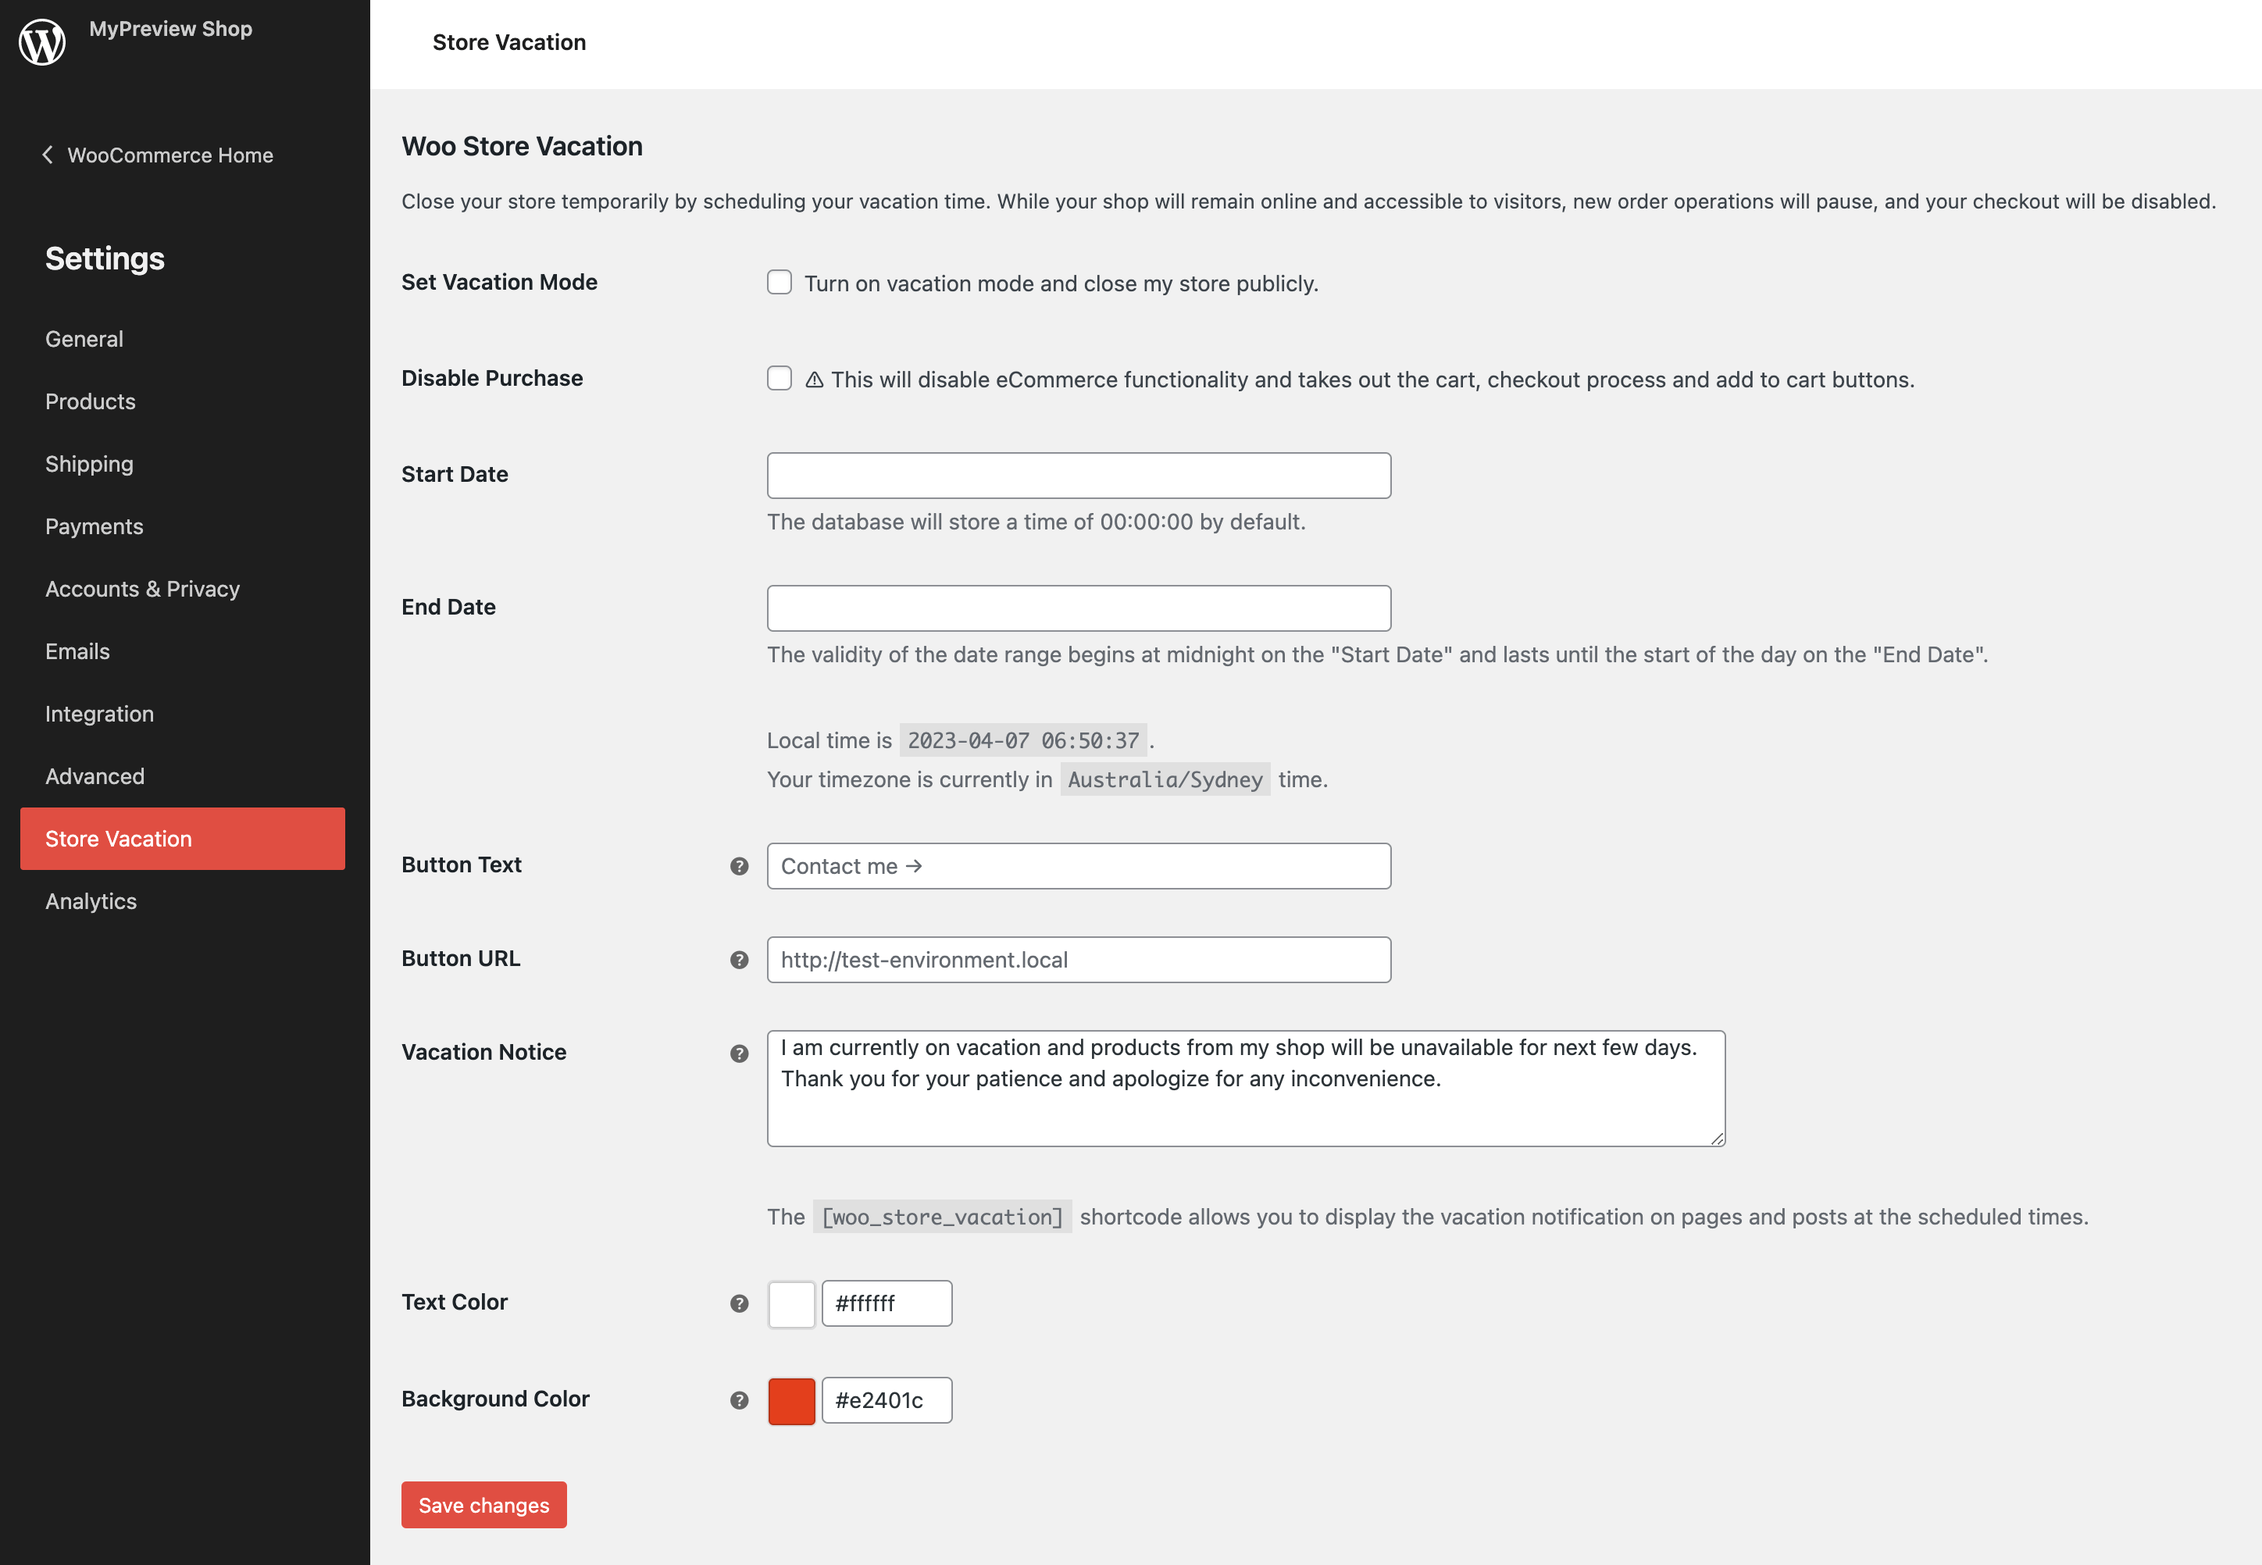
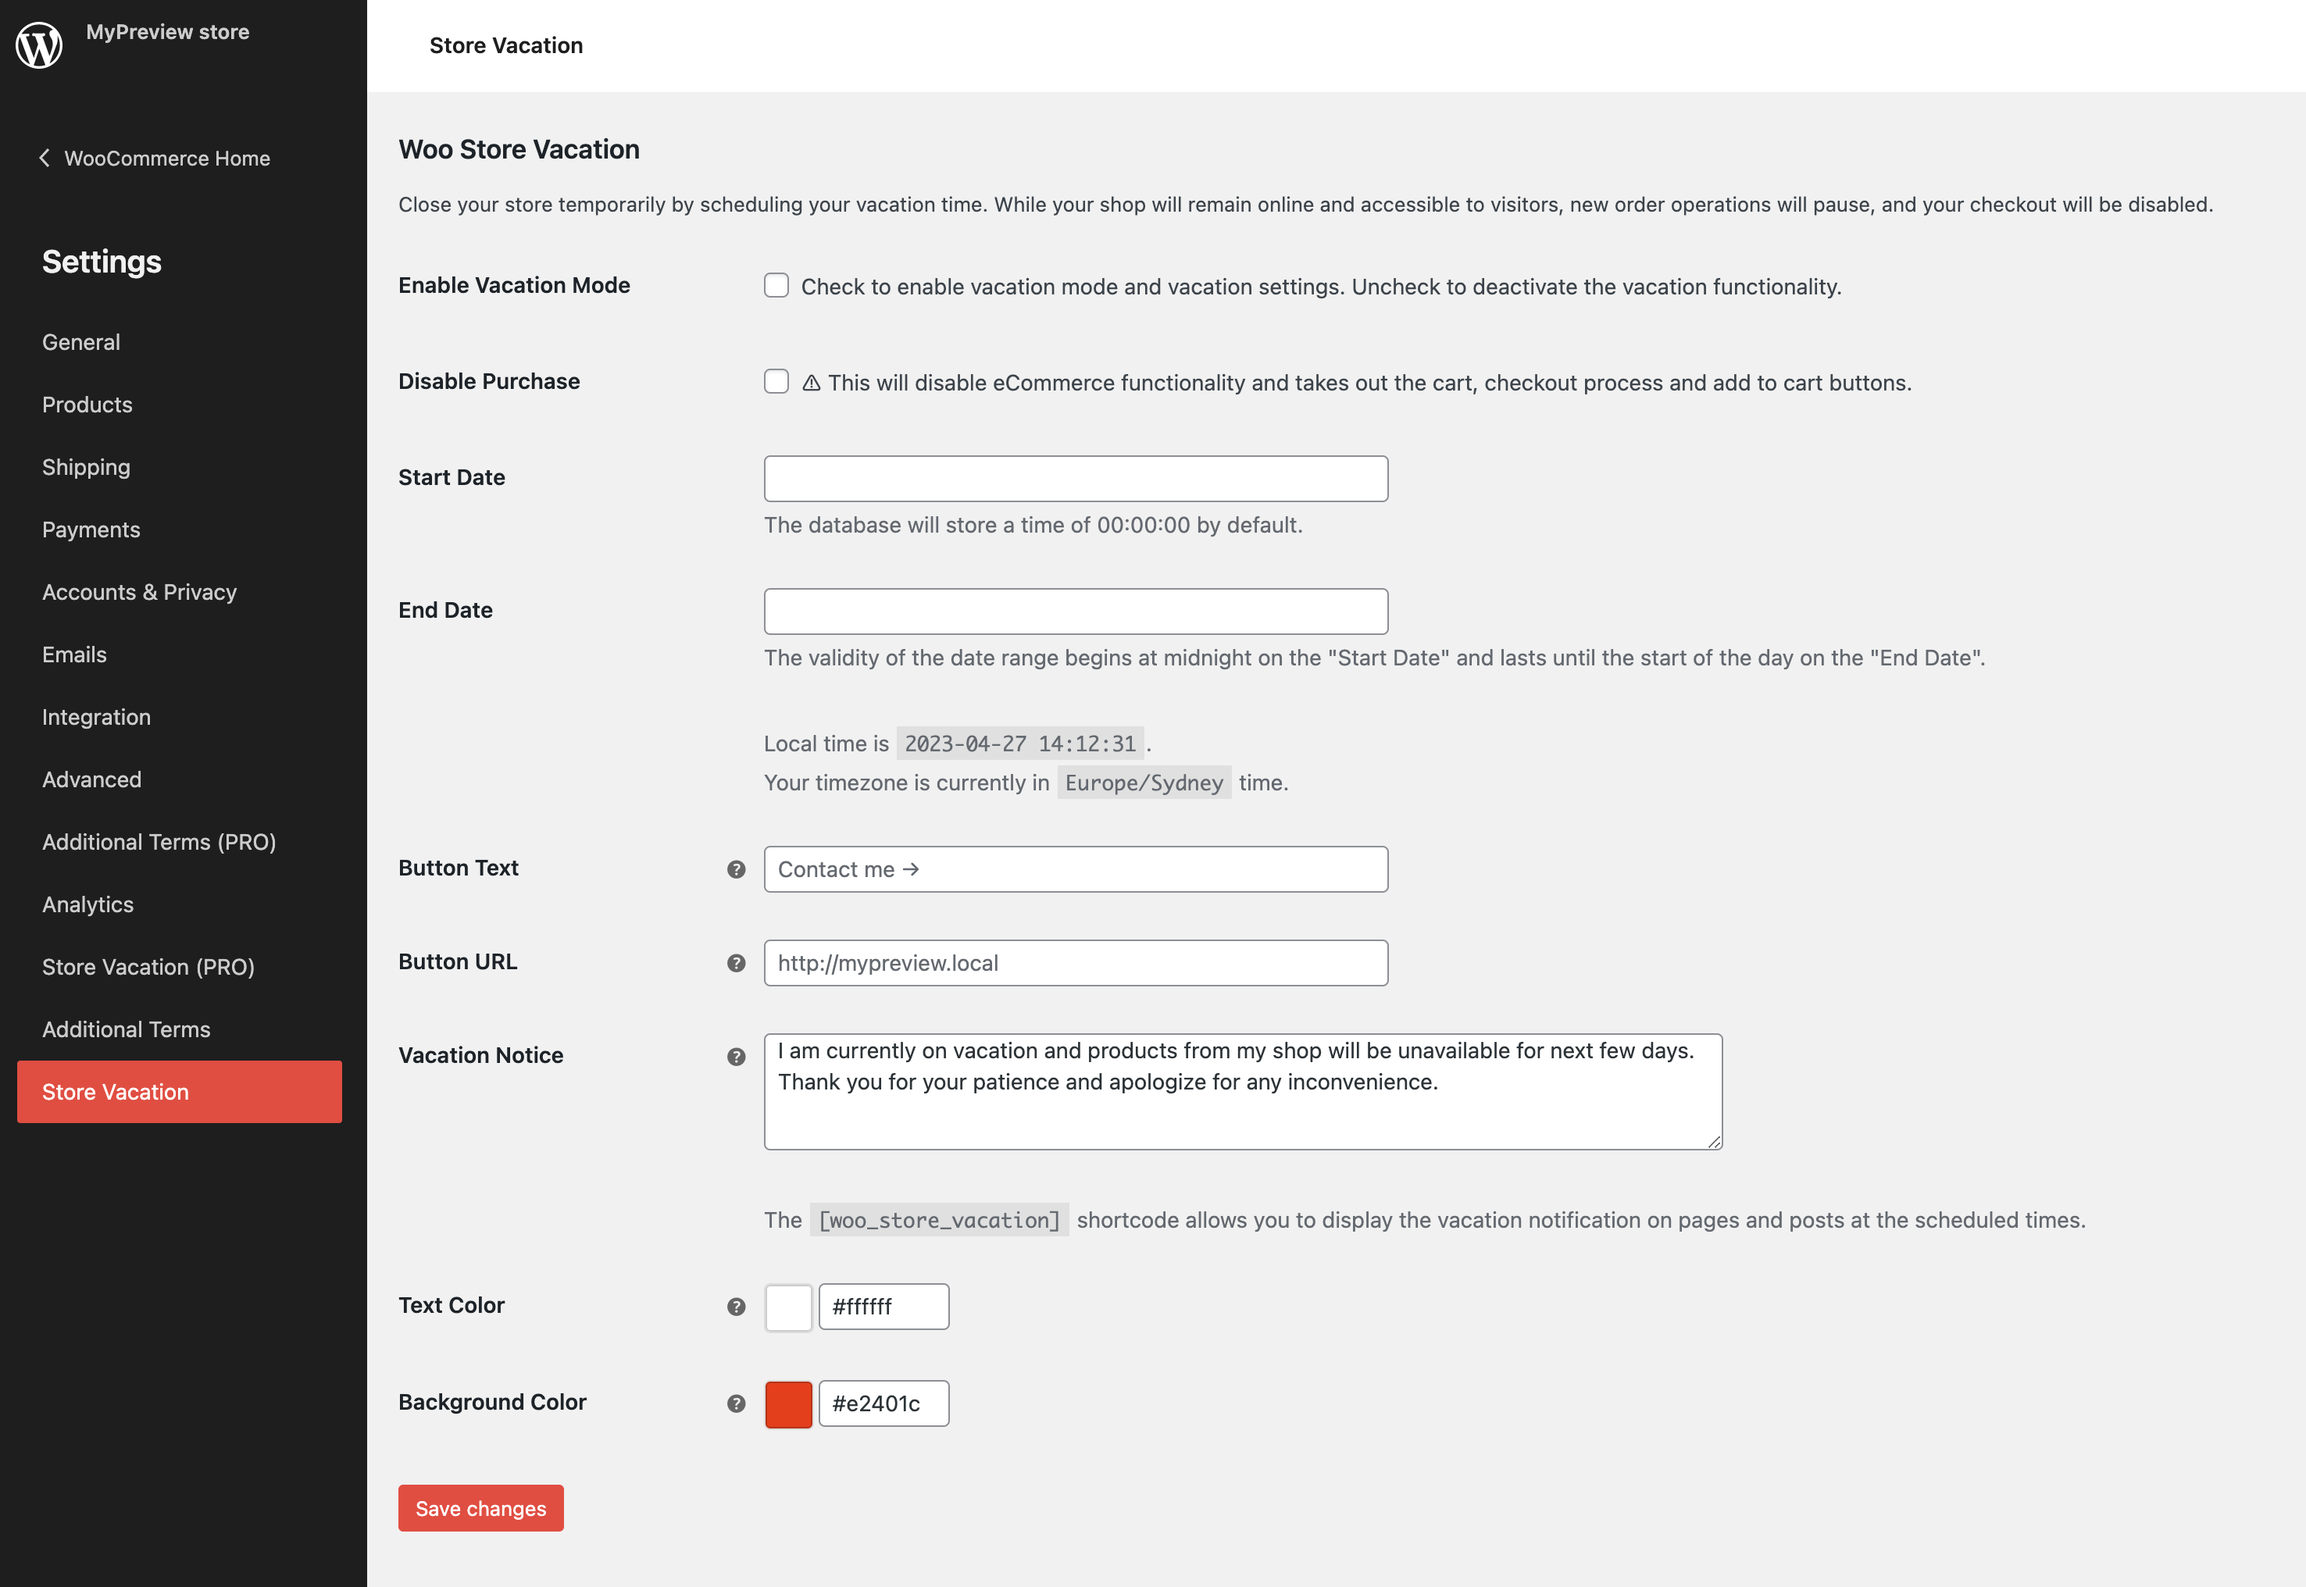
Update vacation mode checkbox (#32)
* Update Vacation Mode checkbox title and description

* Update screenshots

* Fix incorrect plugin name

* Update woo-store-vacation.pot

diff --git a/woo-store-vacation.php b/woo-store-vacation.php
@@ -289,7 +289,7 @@ if ( ! class_exists( 'Woo_Store_Vacation' ) ) :
 				return;
 			endif;
 
-			if ( ! get_option( 'woo_additional_terms_rated' ) && ! get_transient( 'woo_store_vacation_rate' ) && ( time() - (int) get_site_option( 'woo_store_vacation_activation_timestamp' ) ) > WEEK_IN_SECONDS ) :
+			if ( ! get_option( 'woo_store_vacation_rated' ) && ! get_transient( 'woo_store_vacation_rate' ) && ( time() - (int) get_site_option( 'woo_store_vacation_activation_timestamp' ) ) > WEEK_IN_SECONDS ) :
 				?>
 				<div id="<?php echo esc_attr( self::SLUG ); ?>-dismiss-rate" class="notice notice-alt is-dismissible" style="border-left-color:#00818a">
 					<p>
@@ -487,7 +487,7 @@ if ( ! class_exists( 'Woo_Store_Vacation' ) ) :
 					<?php echo esc_html_x( 'Upgrade to Woo Store Vacation PRO for Even More Powerful Features', 'upsell', 'woo-store-vacation' ); ?>
 				</h3>
 				<p class="importer-title">
-					<?php echo esc_html_x( 'Looking for more vacation options for your online store? Upgrade to Woo Additional Terms PRO and get access to powerful features and customization options that are not available in the basic version. Say goodbye to limited options and elevate your online store with premium tools.', 'upsell', 'woo-store-vacation' ); ?>
+					<?php echo esc_html_x( 'Looking for more vacation options for your online store? Upgrade to Woo Store Vacation PRO and get access to powerful features and customization options that are not available in the basic version. Say goodbye to limited options and elevate your online store with premium tools.', 'upsell', 'woo-store-vacation' ); ?>
 				</p>
 				<p class="importer-title">
 					<?php echo esc_html_x( 'Here’s a summary of the features you’ll get with Woo Store Vacation PRO:', 'upsell', 'woo-store-vacation' ); ?>
@@ -971,8 +971,8 @@ if ( ! class_exists( 'Woo_Store_Vacation' ) ) :
 					'desc' => esc_html_x( 'Close your store temporarily by scheduling your vacation time. While your shop will remain online and accessible to visitors, new order operations will pause, and your checkout will be disabled.', 'settings field description', 'woo-store-vacation' ),
 				),
 				'vacation_mode' => array(
-					'name'     => esc_html_x( 'Set Vacation Mode', 'settings field name', 'woo-store-vacation' ),
-					'desc'     => esc_html_x( 'Turn on vacation mode and close my store publicly.', 'settings field name', 'woo-store-vacation' ),
+					'name'     => esc_html_x( 'Enable Vacation Mode', 'settings field name', 'woo-store-vacation' ),
+					'desc'     => esc_html_x( 'Check to enable vacation mode and vacation settings. Uncheck to deactivate the vacation functionality.', 'settings field name', 'woo-store-vacation' ),
 					'type'     => 'checkbox',
 					'id'       => 'woo_store_vacation_options[vacation_mode]',
 					'value'    => wc_bool_to_string( $options['vacation_mode'] ?? false ),
